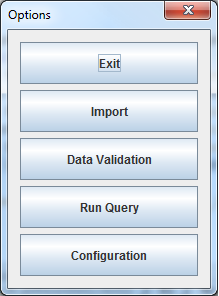
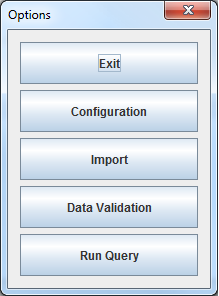
add new class for importer metadata

diff --git a/ImporterTables/src/Controllers/Importers/ImporterMetadata.java b/ImporterTables/src/Controllers/Importers/ImporterMetadata.java
@@ -1,18 +1,18 @@
-/**
- * Copyright 2014 International Center for Tropical Agriculture (CIAT).
- * This file is part of:
- * Crop Wild Relatives
- * It is free software: You can redistribute it and/or modify
- * it under the terms of the GNU General Public License as published by
- * the Free Software Foundation, either version 3 of the License, or
- * at your option) any later version.
- * It is distributed in the hope that it will be useful,
- * but WITHOUT ANY WARRANTY; without even the implied warranty of
- * MERCHANTABILITY or FITNESS FOR A PARTICULAR PURPOSE.  See the
- * GNU General Public License for more details.
- *
- * See <http://www.gnu.org/licenses/>.
- */
+ /**
+  * Copyright 2014 International Center for Tropical Agriculture (CIAT).
+  * This file is part of:
+  * Crop Wild Relatives
+  * It is free software: You can redistribute it and/or modify
+  * it under the terms of the GNU General Public License as published by
+  * the Free Software Foundation, either version 3 of the License, or
+  * at your option) any later version.
+  * It is distributed in the hope that it will be useful,
+  * but WITHOUT ANY WARRANTY; without even the implied warranty of
+  * MERCHANTABILITY or FITNESS FOR A PARTICULAR PURPOSE.  See the
+  * GNU General Public License for more details.
+  *
+  * See <http://www.gnu.org/licenses/>.
+  */
 
 package Controllers.Importers;
 
@@ -28,7 +28,7 @@ import java.util.ArrayList;
  *
  * @author Steven Sotelo - stevenbetancurt@hotmail.com
  */
-public class ImporterTempOccurrences extends ImporterBase {
+public class ImporterMetadata extends ImporterBase {
     
     /*Methods*/
     /**
@@ -38,22 +38,22 @@ public class ImporterTempOccurrences extends ImporterBase {
      * @param clean Specific if the data should cleaner
      * @param log Path to log
      */
-    public ImporterTempOccurrences(String filePath, String fileSplit, boolean clean, String log)
+    public ImporterMetadata(String filePath, String fileSplit, boolean clean, String log)
     {        
         super(new MySQL(Configuration.getParameter("currie_server"),Configuration.getParameter("currie_schema_base"),Configuration.getParameter("currie_user"), Configuration.getParameter("currie_password")),fileSplit,filePath,clean,log);
         try {
             //Load fields from database
             super.db.getResults( "Select lower(COLUMN_NAME) as COLUMN_NAME " +
                     "From COLUMNS " +
-                    "Where TABLE_NAME = 'temp_occurrences' and Table_schema = '" + Configuration.getParameter("currie_schema_gapanalysis") + "';");
+                    "Where TABLE_NAME = 'metadata' and Table_schema = '" + Configuration.getParameter("currie_schema_gapanalysis") + "';");
             ArrayList<String> destination=new ArrayList<String>();
             while(super.db.getRecordSet().next())
                 destination.add(super.db.getRecordSet().getString(1));
             init(destination);
         } catch (SQLException ex) {
-            System.out.println("Error in load temp_occurrences in the database " + ex);
+            System.out.println("Error in load metadata in the database " + ex);
         } catch (Exception ex) {
-            System.out.println("Error in load temp_occurrences " + ex);
+            System.out.println("Error in load metadata " + ex);
         }
     }
     
@@ -64,7 +64,7 @@ public class ImporterTempOccurrences extends ImporterBase {
         System.out.println("Start process to import");
         //Changed database
         super.db=new MySQL(Configuration.getParameter("currie_server"),Configuration.getParameter("currie_schema_gapanalysis"), Configuration.getParameter("currie_user"), Configuration.getParameter("currie_password"));
-        String header="INSERT INTO temp_occurrences (" + super.singleSource() + ") VALUES (";
+        String header="INSERT INTO metadata (" + super.singleSource() + ") VALUES (";
         String values, q="";
         int affected, row=0;
         while((values=file.readLine()) != null)
@@ -97,4 +97,5 @@ public class ImporterTempOccurrences extends ImporterBase {
         System.out.println("End process");
         return errors;
     }
+
 }

diff --git a/ImporterTables/src/Views/Desktop/FrmOptions.java b/ImporterTables/src/Views/Desktop/FrmOptions.java
@@ -99,17 +99,12 @@ public class FrmOptions extends javax.swing.JDialog {
             .addGroup(layout.createSequentialGroup()
                 .addContainerGap()
                 .addGroup(layout.createParallelGroup(javax.swing.GroupLayout.Alignment.LEADING)
-                    .addGroup(javax.swing.GroupLayout.Alignment.TRAILING, layout.createSequentialGroup()
-                        .addGap(0, 0, Short.MAX_VALUE)
-                        .addComponent(cmdConf, javax.swing.GroupLayout.PREFERRED_SIZE, 178, javax.swing.GroupLayout.PREFERRED_SIZE))
-                    .addGroup(layout.createSequentialGroup()
-                        .addGroup(layout.createParallelGroup(javax.swing.GroupLayout.Alignment.LEADING)
-                            .addComponent(cmdExit, javax.swing.GroupLayout.PREFERRED_SIZE, 178, javax.swing.GroupLayout.PREFERRED_SIZE)
-                            .addComponent(cmdImporter, javax.swing.GroupLayout.PREFERRED_SIZE, 178, javax.swing.GroupLayout.PREFERRED_SIZE)
-                            .addComponent(cmdDataValidation, javax.swing.GroupLayout.PREFERRED_SIZE, 178, javax.swing.GroupLayout.PREFERRED_SIZE)
-                            .addComponent(cmdRunQuery, javax.swing.GroupLayout.PREFERRED_SIZE, 178, javax.swing.GroupLayout.PREFERRED_SIZE))
-                        .addGap(0, 0, Short.MAX_VALUE)))
-                .addContainerGap())
+                    .addComponent(cmdImporter, javax.swing.GroupLayout.PREFERRED_SIZE, 178, javax.swing.GroupLayout.PREFERRED_SIZE)
+                    .addComponent(cmdDataValidation, javax.swing.GroupLayout.PREFERRED_SIZE, 178, javax.swing.GroupLayout.PREFERRED_SIZE)
+                    .addComponent(cmdRunQuery, javax.swing.GroupLayout.PREFERRED_SIZE, 178, javax.swing.GroupLayout.PREFERRED_SIZE)
+                    .addComponent(cmdExit, javax.swing.GroupLayout.PREFERRED_SIZE, 178, javax.swing.GroupLayout.PREFERRED_SIZE)
+                    .addComponent(cmdConf, javax.swing.GroupLayout.PREFERRED_SIZE, 178, javax.swing.GroupLayout.PREFERRED_SIZE))
+                .addContainerGap(javax.swing.GroupLayout.DEFAULT_SIZE, Short.MAX_VALUE))
         );
         layout.setVerticalGroup(
             layout.createParallelGroup(javax.swing.GroupLayout.Alignment.LEADING)
@@ -117,13 +112,13 @@ public class FrmOptions extends javax.swing.JDialog {
                 .addContainerGap()
                 .addComponent(cmdExit, javax.swing.GroupLayout.PREFERRED_SIZE, 42, javax.swing.GroupLayout.PREFERRED_SIZE)
                 .addPreferredGap(javax.swing.LayoutStyle.ComponentPlacement.RELATED)
+                .addComponent(cmdConf, javax.swing.GroupLayout.PREFERRED_SIZE, 42, javax.swing.GroupLayout.PREFERRED_SIZE)
+                .addPreferredGap(javax.swing.LayoutStyle.ComponentPlacement.RELATED)
                 .addComponent(cmdImporter, javax.swing.GroupLayout.PREFERRED_SIZE, 42, javax.swing.GroupLayout.PREFERRED_SIZE)
                 .addPreferredGap(javax.swing.LayoutStyle.ComponentPlacement.RELATED)
                 .addComponent(cmdDataValidation, javax.swing.GroupLayout.PREFERRED_SIZE, 42, javax.swing.GroupLayout.PREFERRED_SIZE)
                 .addPreferredGap(javax.swing.LayoutStyle.ComponentPlacement.RELATED)
                 .addComponent(cmdRunQuery, javax.swing.GroupLayout.PREFERRED_SIZE, 42, javax.swing.GroupLayout.PREFERRED_SIZE)
-                .addPreferredGap(javax.swing.LayoutStyle.ComponentPlacement.RELATED)
-                .addComponent(cmdConf, javax.swing.GroupLayout.PREFERRED_SIZE, 42, javax.swing.GroupLayout.PREFERRED_SIZE)
                 .addContainerGap(javax.swing.GroupLayout.DEFAULT_SIZE, Short.MAX_VALUE))
         );
 

diff --git a/ImporterTables/src/Views/Desktop/FrmImport.java b/ImporterTables/src/Views/Desktop/FrmImport.java
@@ -16,6 +16,7 @@
 package Views.Desktop;
 
 import Controllers.Importers.ImporterBase;
+import Controllers.Importers.ImporterMetadata;
 import Controllers.Importers.ImporterTempOccurrences;
 import Controllers.Importers.TypeImports;
 import java.io.File;
@@ -222,6 +223,8 @@ public class FrmImport extends javax.swing.JDialog {
         {
             if((TypeImports)cboTypeImport.getSelectedItem()==TypeImports.TEMP_OCCURRENCES)
                 importer=new ImporterTempOccurrences(txtSource.getText().trim(),txtSplit.getText().trim(),chkClean.isSelected(), txtLog.getText());
+            else if((TypeImports)cboTypeImport.getSelectedItem()==TypeImports.METADATA)
+                importer=new ImporterMetadata(txtSource.getText().trim(),txtSplit.getText().trim(),chkClean.isSelected(), txtLog.getText());
             this.exit=false;            
             this.setVisible(false);
         }

diff --git a/ImporterTables/src/Controllers/Importers/TypeImports.java b/ImporterTables/src/Controllers/Importers/TypeImports.java
@@ -21,5 +21,6 @@ package Controllers.Importers;
  * @author Steven Sotelo - stevenbetancurt@hotmail.com
  */
 public enum TypeImports {
-    TEMP_OCCURRENCES
+    TEMP_OCCURRENCES,
+    METADATA
 }
